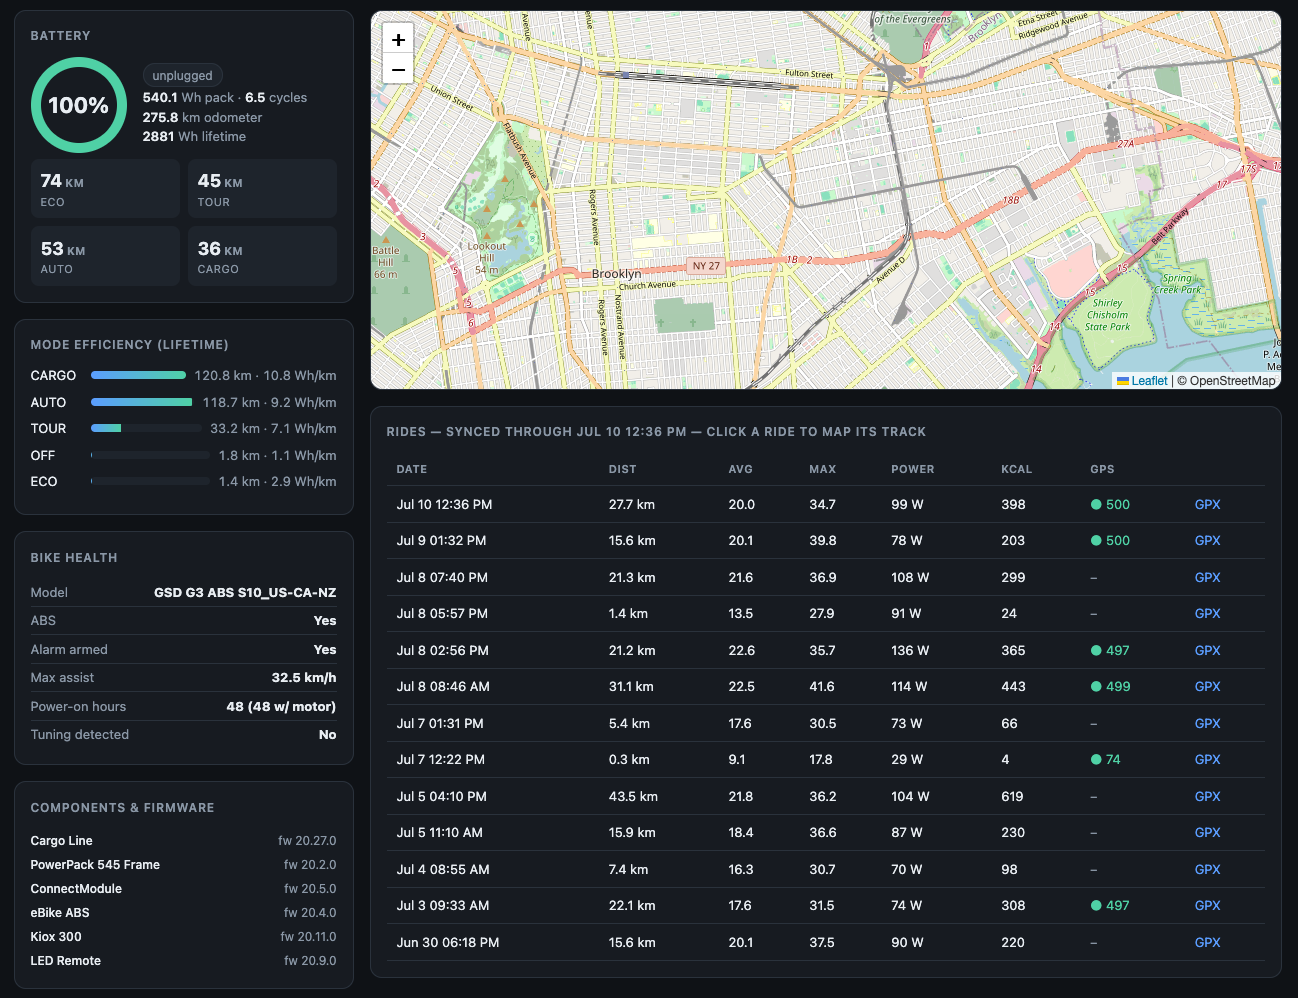
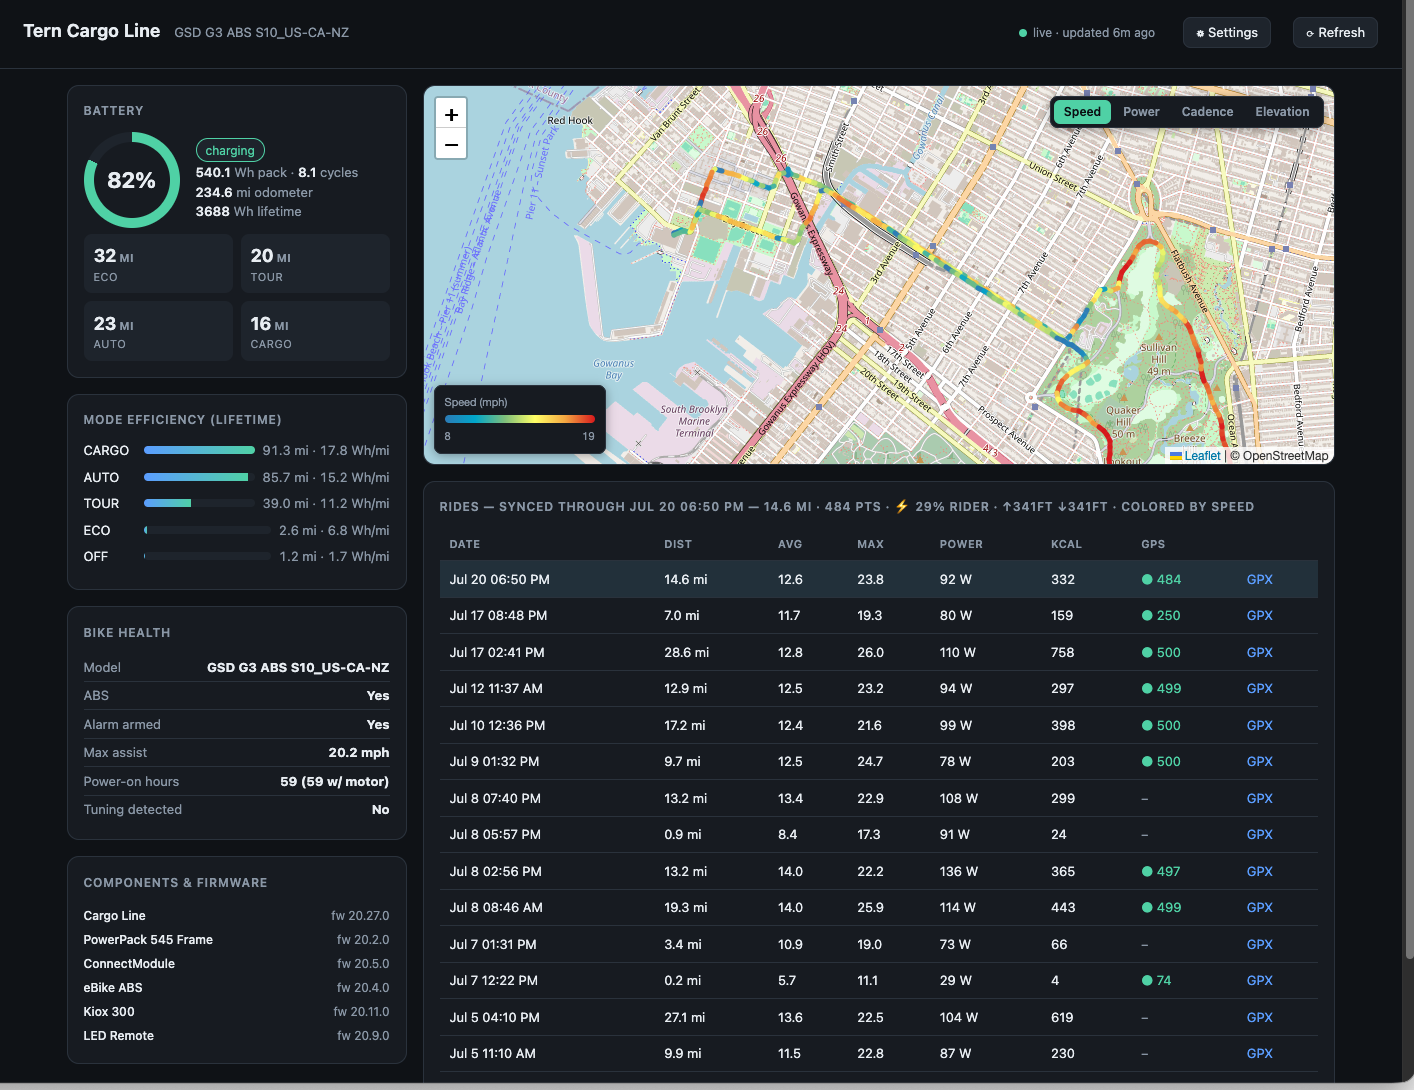
Display app as "Bike Bar"; real-route dashboard shot
CFBundleName/CFBundleDisplayName only — the bundle filename stays
"Bosch Bar.app" and the identifier stays com.boschflow.menubar, so Sparkle
updates still land on top of existing installs rather than orphaning them.

Swaps the site's dashboard screenshot for one with a real speed-colored
route, browser chrome trimmed off.

diff --git a/website/hero-source.html b/website/hero-source.html
@@ -1,0 +1,191 @@
+<!DOCTYPE html>
+<html>
+<head>
+<meta charset="utf-8">
+<style>
+  * { margin:0; padding:0; box-sizing:border-box; }
+  html, body { width:900px; height:512px; }
+  body {
+    font-family: -apple-system, BlinkMacSystemFont, "SF Pro Text", "Helvetica Neue", sans-serif;
+    background:
+      radial-gradient(700px 340px at 50% 0px, rgba(52,208,88,0.10), transparent 70%),
+      repeating-linear-gradient(115deg, rgba(255,255,255,0.022) 0 1px, transparent 1px 46px),
+      #0a0f0c;
+    position: relative;
+    overflow: hidden;
+  }
+
+  /* ---- menu bar strip ---- */
+  /* the bike item is anchored dead-centre so the popover arrow lands under it;
+     neighbours fan out either side the way a real menu bar does */
+  .menubar {
+    position:absolute; top:38px; left:0; right:0; height:30px;
+    font-size:13px; color:#e6ece8;
+  }
+  .mb-left, .mb-right {
+    position:absolute; top:0; height:30px;
+    display:flex; align-items:center; gap:6px;
+  }
+  .mb-left  { right:calc(50% + 46px); }
+  .mb-right { left:calc(50% + 46px); }
+  .mb-active { position:absolute; top:0; left:50%; transform:translateX(-50%); }
+  .mb-pill {
+    height:30px; border-radius:7px; background:rgba(255,255,255,0.05);
+  }
+  .mb-item {
+    display:flex; align-items:center; gap:6px;
+    padding:0 12px; height:30px; border-radius:7px;
+    font-variant-numeric: tabular-nums;
+  }
+  .mb-active { background:rgba(255,255,255,0.13); }
+  .mb-dim { color:#8b9a91; font-size:11px; letter-spacing:0.02em; }
+
+  /* ---- popover ---- */
+  .pop {
+    position:absolute; top:86px; left:50%; transform:translateX(-50%);
+    width:326px; padding:14px;
+    background:#2f3134;
+    border:0.5px solid rgba(255,255,255,0.09);
+    border-radius:12px;
+    box-shadow: 0 22px 60px rgba(0,0,0,0.62), 0 2px 6px rgba(0,0,0,0.4);
+    color:#e9ecea;
+  }
+  .arrow {
+    position:absolute; top:-7px; left:50%; transform:translateX(-50%) rotate(45deg);
+    width:14px; height:14px; background:#2f3134;
+    border-left:0.5px solid rgba(255,255,255,0.09);
+    border-top:0.5px solid rgba(255,255,255,0.09);
+    border-radius:2px;
+  }
+  .title { font-size:13px; font-weight:700; margin-bottom:12px; }
+  .row { display:flex; align-items:center; gap:10px; }
+  .pct { font-size:21px; font-weight:700; letter-spacing:-0.4px; line-height:1.1; }
+  .sub { font-size:11px; color:#9aa39d; margin-top:1px; }
+  .eta {
+    display:inline-block; margin-top:4px;
+    font-size:11px; font-weight:500; color:#59d96f;
+    background:rgba(89,217,111,0.14);
+    padding:2px 7px; border-radius:100px;
+  }
+
+  .modes { display:flex; gap:8px; margin-top:12px; }
+  .mode {
+    flex:1; text-align:center; padding:5px 0 4px;
+    background:rgba(255,255,255,0.075); border-radius:6px;
+  }
+  .mode b { display:block; font-size:13px; font-weight:600; }
+  .mode span { display:block; font-size:8px; color:#9aa39d; letter-spacing:0.06em; margin-top:1px; }
+
+  .line { display:flex; align-items:center; gap:6px; font-size:11px; margin-top:12px; color:#dfe4e1; }
+  hr { border:0; border-top:0.5px solid rgba(255,255,255,0.13); margin:12px 0; }
+  .label { font-size:11px; color:#9aa39d; margin-bottom:6px; }
+  .between { display:flex; align-items:center; justify-content:space-between; font-size:11px; }
+  .between b { font-weight:700; }
+
+  .btn {
+    display:inline-block; padding:4px 11px; font-size:11px;
+    background:rgba(255,255,255,0.11); border:0.5px solid rgba(255,255,255,0.09);
+    border-radius:6px; color:#e9ecea;
+  }
+  .btnrow { display:flex; align-items:center; gap:8px; margin-top:10px; }
+  .check {
+    width:13px; height:13px; border-radius:3px; background:#3d7fe8;
+    display:inline-flex; align-items:center; justify-content:center;
+  }
+  .foot { display:flex; gap:8px; margin-top:12px; }
+  svg { display:block; }
+</style>
+</head>
+<body>
+
+  <div class="menubar">
+    <div class="mb-left">
+      <div class="mb-pill" style="width:88px"></div>
+      <div class="mb-item mb-dim">
+        <svg width="13" height="13" viewBox="0 0 24 24"><path fill="#8b9a91" d="M12 6a1 1 0 100-2 1 1 0 000 2zm7 4a4 4 0 100 8 4 4 0 000-8zm0 1.5a2.5 2.5 0 110 5 2.5 2.5 0 010-5zM5 10a4 4 0 100 8 4 4 0 000-8zm0 1.5a2.5 2.5 0 110 5 2.5 2.5 0 010-5z"/></svg>
+        CPU 41°
+      </div>
+      <div class="mb-item mb-dim">↑ 2.1 ↓ 18</div>
+    </div>
+
+    <div class="mb-item mb-active">
+      <svg width="15" height="15" viewBox="0 0 24 24"><path fill="#e6ece8" d="M18.5 9.5c-.42 0-.82.06-1.2.17L15.6 6.5h1.65V5.2h-3.1c-.24 0-.45.13-.56.34l-.63 1.16H8.9V5.5h2.35V4.2H5.6v1.3h2v1.2h-.85c-.3 0-.56.2-.63.49l-.4 1.5c-.2-.04-.4-.06-.62-.06a4.5 4.5 0 100 9 4.5 4.5 0 004.42-3.65h1.63c.26 0 .5-.15.6-.4l2.4-5.02.72 1.3A4.49 4.49 0 1018.5 9.5zm-13 7.7a3.2 3.2 0 01-.4-6.37l-.78 2.9a.65.65 0 00.63.82H8.1a3.2 3.2 0 01-2.6 2.65zm2.6-3.95H5.8l.62-2.3 1.68 2.3zm3-.65h-1.2L7.4 9.36l.6-1.36h4.86l-1.76 4.6zm5.4 4.6a3.2 3.2 0 01-1.05-6.22l1.2 2.2a.65.65 0 001.14-.62l-1.2-2.2a3.2 3.2 0 01-.09 6.84z"/></svg>
+      62%
+    </div>
+
+    <div class="mb-right">
+      <div class="mb-pill" style="width:64px"></div>
+      <div class="mb-pill" style="width:52px"></div>
+      <div class="mb-item mb-dim" style="margin-left:2px">Sun 20 Jul&nbsp; 21:58</div>
+    </div>
+  </div>
+
+  <div class="pop">
+    <div class="arrow"></div>
+
+    <div class="title">Tern Cargo Line</div>
+
+    <div class="row">
+      <!-- battery.100.bolt, accentGreen -->
+      <svg width="30" height="30" viewBox="0 0 28 20">
+        <rect x="1" y="3.4" width="21.4" height="13.2" rx="4" fill="none" stroke="#59d96f" stroke-width="1.4"/>
+        <path d="M24.3 8.4c1.1.5 1.1 2.7 0 3.2V8.4z" fill="#59d96f"/>
+        <rect x="3" y="5.4" width="17.4" height="9.2" rx="2.4" fill="#59d96f"/>
+        <path d="M13.1 4.9l-4.5 6.6h3.1l-1.2 4.6 4.8-7h-3.3z" fill="#2f3134"/>
+      </svg>
+      <div>
+        <div class="pct">62%</div>
+        <div class="sub">charging · live</div>
+        <div class="eta">1h 12m to full</div>
+      </div>
+    </div>
+
+    <div class="modes">
+      <div class="mode"><b>74</b><span>ECO</span></div>
+      <div class="mode"><b>45</b><span>TOUR</span></div>
+      <div class="mode"><b>53</b><span>AUTO</span></div>
+      <div class="mode"><b>36</b><span>CARGO</span></div>
+    </div>
+
+    <div class="line">
+      <svg width="12" height="12" viewBox="0 0 24 24"><circle cx="12" cy="12" r="9.2" fill="none" stroke="#c9d0cb" stroke-width="1.6"/><path d="M12 7.6v5.2" stroke="#c9d0cb" stroke-width="1.7" stroke-linecap="round"/><circle cx="12" cy="16.4" r="1" fill="#c9d0cb"/></svg>
+      275.8 km odometer
+    </div>
+
+    <hr>
+    <div class="label">Latest ride</div>
+    <div class="between">
+      <span>Jul 20, 6:04 PM</span>
+      <span style="display:flex; align-items:center; gap:6px">
+        <b>27.7 km</b>
+        <svg width="10" height="10" viewBox="0 0 24 24"><path fill="#59d96f" d="M21 3L3 10.5l7.2 2.9L13.5 21 21 3z"/></svg>
+      </span>
+    </div>
+
+    <hr>
+    <div class="between" style="justify-content:flex-start; gap:8px">
+      <svg width="14" height="14" viewBox="0 0 24 24"><path fill="#59d96f" d="M12 1.6l2.3 1.7 2.8-.4 1 2.7 2.5 1.4-.7 2.8.7 2.8-2.5 1.4-1 2.7-2.8-.4L12 18.4 9.7 16.7l-2.8.4-1-2.7-2.5-1.4.7-2.8-.7-2.8 2.5-1.4 1-2.7 2.8.4L12 1.6z"/><path fill="#2f3134" d="M10.9 13.2L8.2 10.5l1.2-1.2 1.5 1.5 3.7-3.7 1.2 1.2-4.9 4.9z"/></svg>
+      <span style="color:#9aa39d">Signed in · c5ecb152…</span>
+    </div>
+    <div class="btnrow"><span class="btn">Re-authenticate…</span></div>
+
+    <div class="btnrow">
+      <span class="check">
+        <svg width="9" height="9" viewBox="0 0 24 24"><path fill="#fff" d="M9.6 16.2L5.4 12l1.4-1.4 2.8 2.8 7-7L18 7.8z"/></svg>
+      </span>
+      <span style="font-size:11px">Launch at login</span>
+      <span style="flex:1"></span>
+      <span class="btn">Check for Updates…</span>
+    </div>
+
+    <hr>
+    <div class="foot">
+      <span class="btn">Dashboard</span>
+      <span class="btn">Refresh</span>
+      <span class="btn">km</span>
+      <span class="btn">Quit</span>
+    </div>
+  </div>
+
+</body>
+</html>

diff --git a/menubar/BoschBar.swift b/menubar/BoschBar.swift
@@ -141,7 +141,7 @@ struct Ride: Decodable {
 // MARK: - Store
 @MainActor
 final class BikeStore: ObservableObject {
-    @Published var bikeName = "Bosch Bar"
+    @Published var bikeName = "Bike Bar"
     @Published var battery: Battery?
     @Published var rides: [Ride] = []
     @Published var serverUp = false